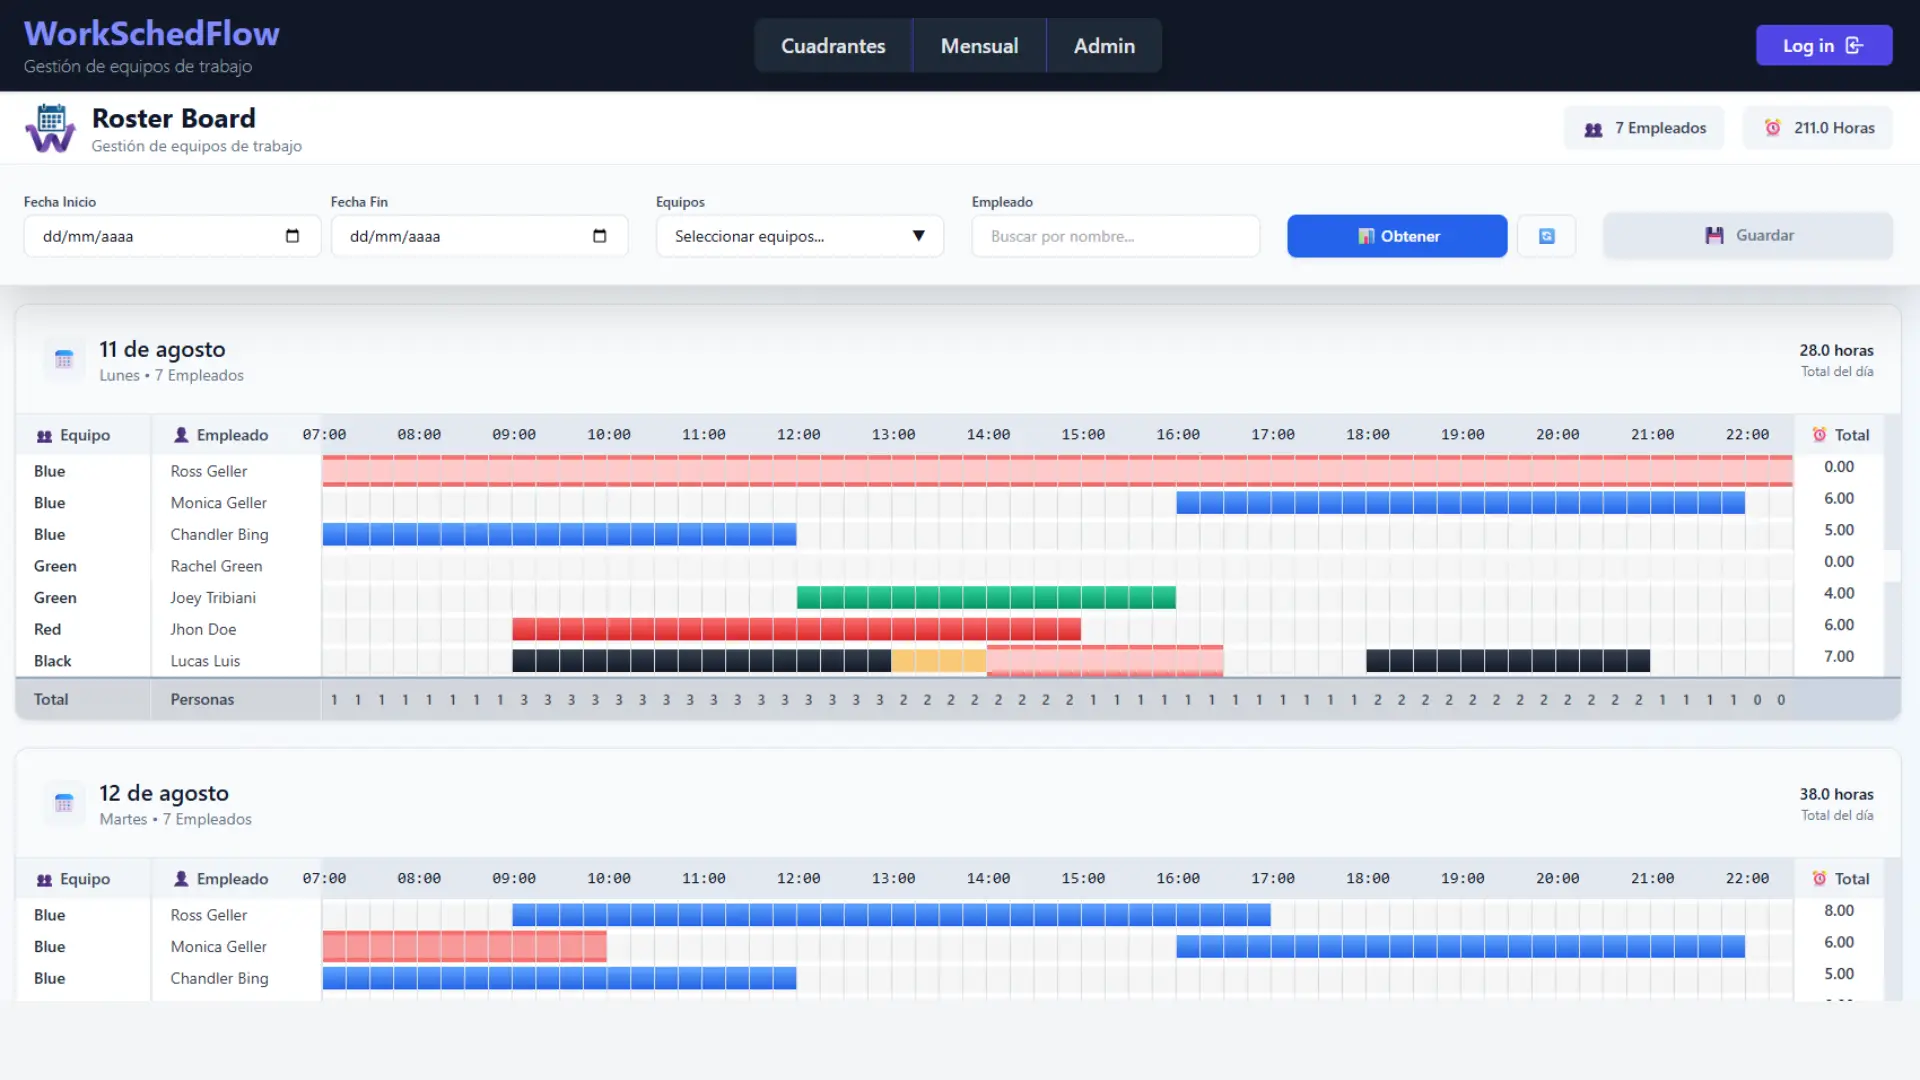
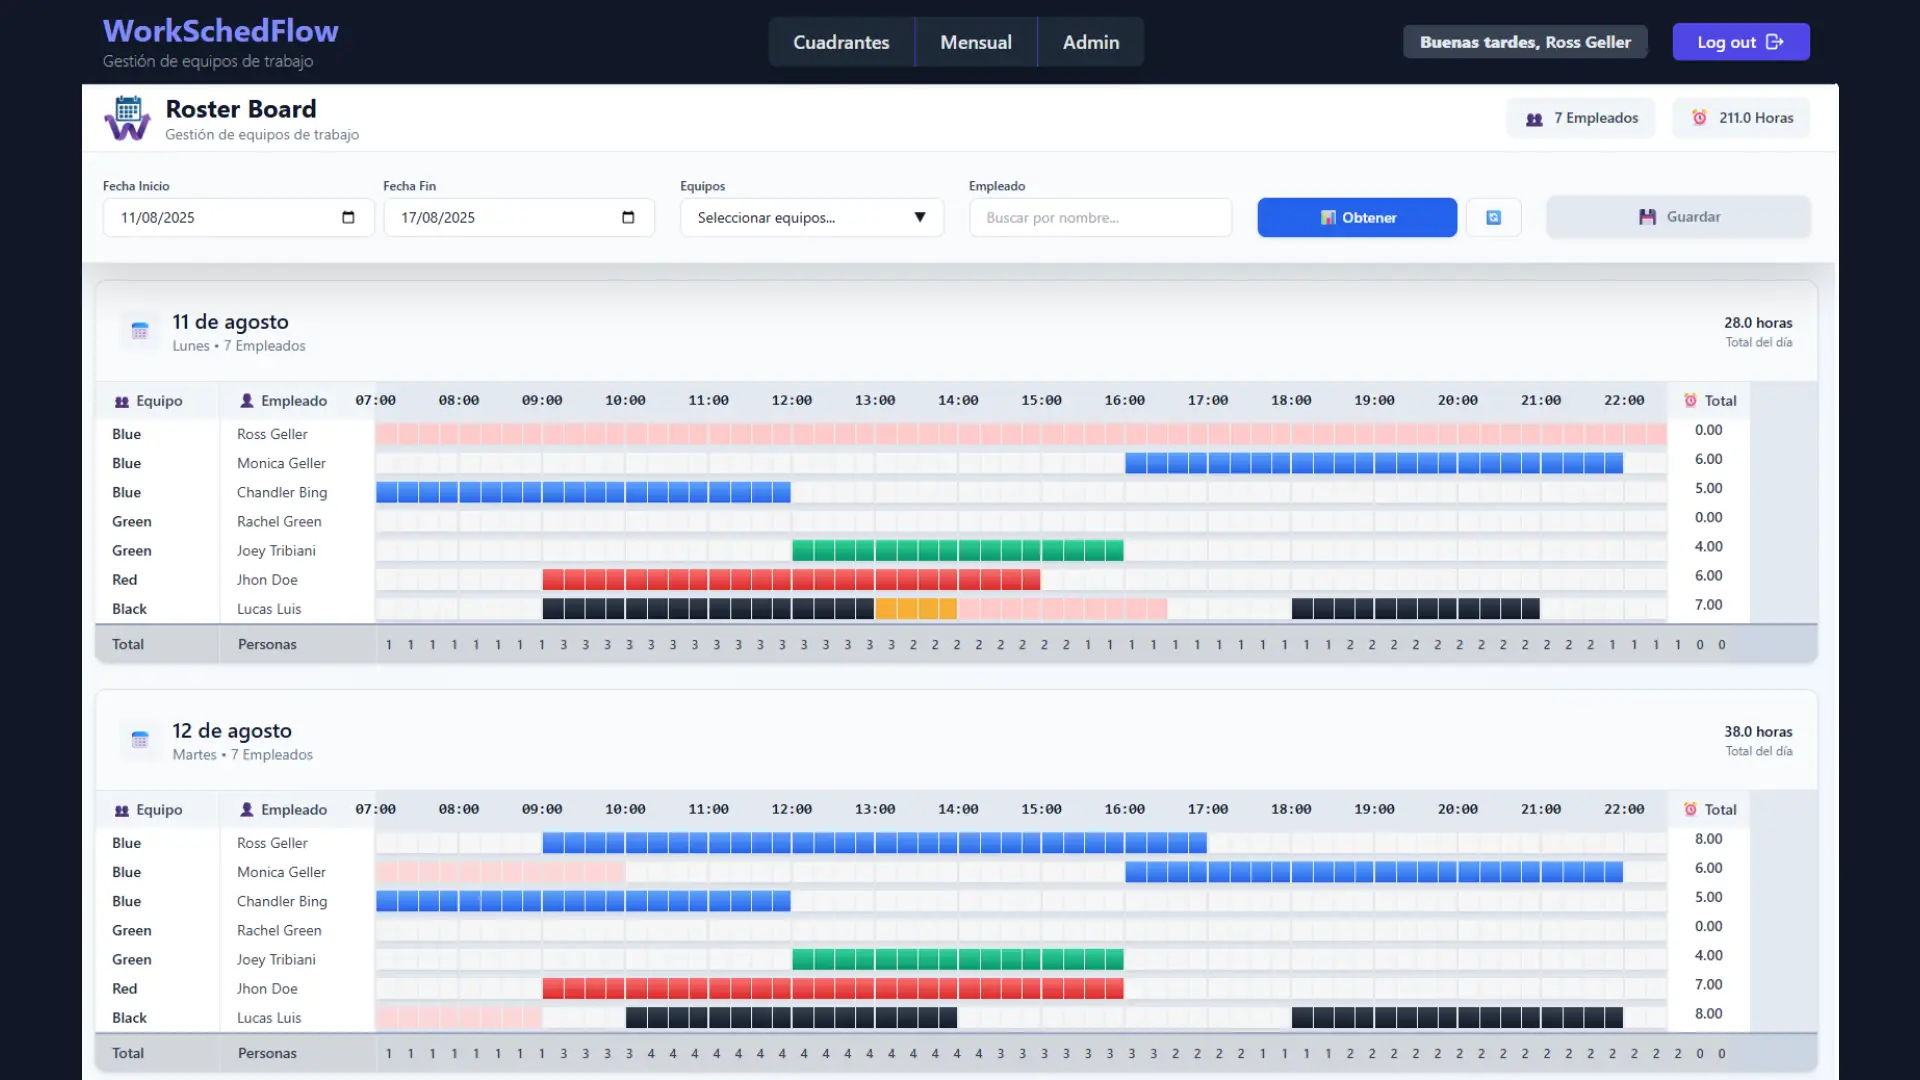
style: corregido el style de la pizarra

diff --git a/src/roster/components/EmployeeRow.jsx b/src/roster/components/EmployeeRow.jsx
@@ -1,4 +1,4 @@
-import { memo, useMemo, useRef, useCallback } from "react"; // ✅ Agregar useCallback
+import { memo, useMemo, useRef, useCallback } from "react";
 import { useEmployeeInteractions } from "../hooks/useEmployeeInteractions";
 import { selectColor } from "../../utils/function";
 
@@ -51,11 +51,9 @@ export const EmployeeRow = memo(
             [employee.workShift]
         );
 
-        // Función para manejar el toggle con casos especiales 
         const toggleHour = useCallback((hourIndex) => {
             const currentValue = employee.workShift[hourIndex];
 
-            // No permitir toggle en PTO o disabled
             if (currentValue === "PTO" || isIndexDisabled(hourIndex)) {
                 return;
             }
@@ -66,28 +64,22 @@ export const EmployeeRow = memo(
             });
         }, [employee.workShift, isIndexDisabled, dispatch, dayIndex, employeeIndex]);
 
-
-        // Manejo de onMouseDown unificado y más limpio
         const handleCellMouseDownWithLogic = useCallback((hourIndex, event) => {
             const currentValue = employee.workShift[hourIndex];
 
-            // Si es PTO o Disabled: prevenir todo y salir.
             if (currentValue === "PTO" || isIndexDisabled(hourIndex)) {
                 event.preventDefault();
                 event.stopPropagation();
                 return;
             }
 
-            // Si es CONFLICT: hacer el toggle (convierte a PTO) y salir. NO iniciar arrastre.
             if (currentValue === "CONFLICT") {
                 event.preventDefault();
                 event.stopPropagation();
-                toggleHour(hourIndex); // Usa toggleHour para el dispatch de CONFLICT -> PTO
+                toggleHour(hourIndex);
                 return;
             }
 
-            // Para WORK y Null: iniciar arrastre.
-            // La función handleMouseDown del hook se encarga del primer dispatch.
             handleMouseDown(hourIndex);
         }, [employee.workShift, isIndexDisabled, toggleHour, handleMouseDown]);
 
@@ -106,7 +98,7 @@ export const EmployeeRow = memo(
 
         return (
             <>
-                {/* ... Elementos de Nombre y Equipo ... */}
+                {/* Elementos de Nombre y Equipo */}
                 <div className="bg-white px-3 py-0 text-sm font-medium text-gray-800 border-r flex items-center">
                     <span className="truncate">{employee.teamWork}</span>
                 </div>
@@ -119,13 +111,27 @@ export const EmployeeRow = memo(
                 {employee.workShift.map((value, hourIndex) => {
                     const disabled = isIndexDisabled(hourIndex) || value === "PTO";
                     const cellBgClass = disabled ? "bg-red-200" : "bg-white";
+                    const isHourStart = hourIndex % 4 === 0; // Marca de hora en punto
 
                     return (
                         <div
                             key={hourIndex}
-                            className={`${cellBgClass} flex items-center justify-center w-5 h-5 px-0 py-0 mx-0 my-1`}
+                            className={`${cellBgClass} flex items-center justify-center w-5 h-5 px-0 py-0 mx-0 my-1 relative
+                                ${isHourStart ? '' : 'border-l border-slate-100'}
+                            `}
                             onMouseUp={handleMouseUp}
                         >
+                            {/* Línea extendida hacia arriba para horas en punto */}
+                            {isHourStart && (
+                                <div
+                                    className="absolute -left-0.5 w-[2px] bg-gray-200 z-10 "
+                                    style={{
+                                        top: '-15px',    // Extiende 3px hacia arriba
+                                        height: '35px', // Altura total: 26px (celda + márgenes) + 6px extra
+                                    }}
+                                />
+                            )}
+
                             <input
                                 ref={(el) => {
                                     inputRefs.current[hourIndex] = el;
@@ -165,7 +171,7 @@ export const EmployeeRow = memo(
                     );
                 })}
 
-                {/* ... Elemento de Horas Totales ... */}
+                {/* Elemento de Horas Totales */}
                 <div className="bg-white px-3 py-0 text-sm font-medium text-gray-700 border-l text-center">
                     {totalHours.toFixed(2)}
                 </div>

diff --git a/src/pages/RosterPage.jsx b/src/pages/RosterPage.jsx
@@ -581,7 +581,7 @@ export const RosterPage = () => {
                                 {/* Tabla de Turnos */}
                                 <div className="overflow-x-auto">
                                     <div
-                                        className="grid gap-px bg-slate-200 min-w-max"
+                                        className="grid  bg-slate-200 min-w-max"
                                         style={{
                                             gridTemplateColumns: "120px 150px repeat(62, 20px) 80px",
                                         }}
@@ -614,7 +614,7 @@ export const RosterPage = () => {
                                         return (
                                             <div
                                                 key={employee.id}
-                                                className={`grid gap-px bg-slate-200 min-w-max transition-all duration-200`}
+                                                className={`grid  bg-slate-200 min-w-max transition-all duration-200`}
                                                 style={{ gridTemplateColumns: "120px 150px repeat(62, 20px) 80px" }}
                                             >
                                                 <EmployeeRow

diff --git a/src/roster/components/HeadRow.jsx b/src/roster/components/HeadRow.jsx
@@ -6,7 +6,7 @@ export const HeadRow = () => (
 
 
         {hours.salida.map((hour, i) => (
-            <div key={i} className="text-center text-sm font-mono -ml-[18px] flex items-center">
+            <div key={i} className="text-center text-sm font-mono font-bold -ml-[20px] flex items-center">
                 {i % 4 === 0 ? hour : ""}
             </div>
         ))}

diff --git a/src/pages/Landing.jsx b/src/pages/Landing.jsx
@@ -68,7 +68,7 @@ export const Landing = () => {
       id: "v3",
       title: "Versión 3 — Actual",
       subtitle: "Actual",
-      img: "./version-v3.webp",
+      img: "./general.webp",
       text: "Interfaz optimizada para grandes equipos y herramientas avanzadas de planificación.",
       link: "/",
       more: "/changelog#v3",
